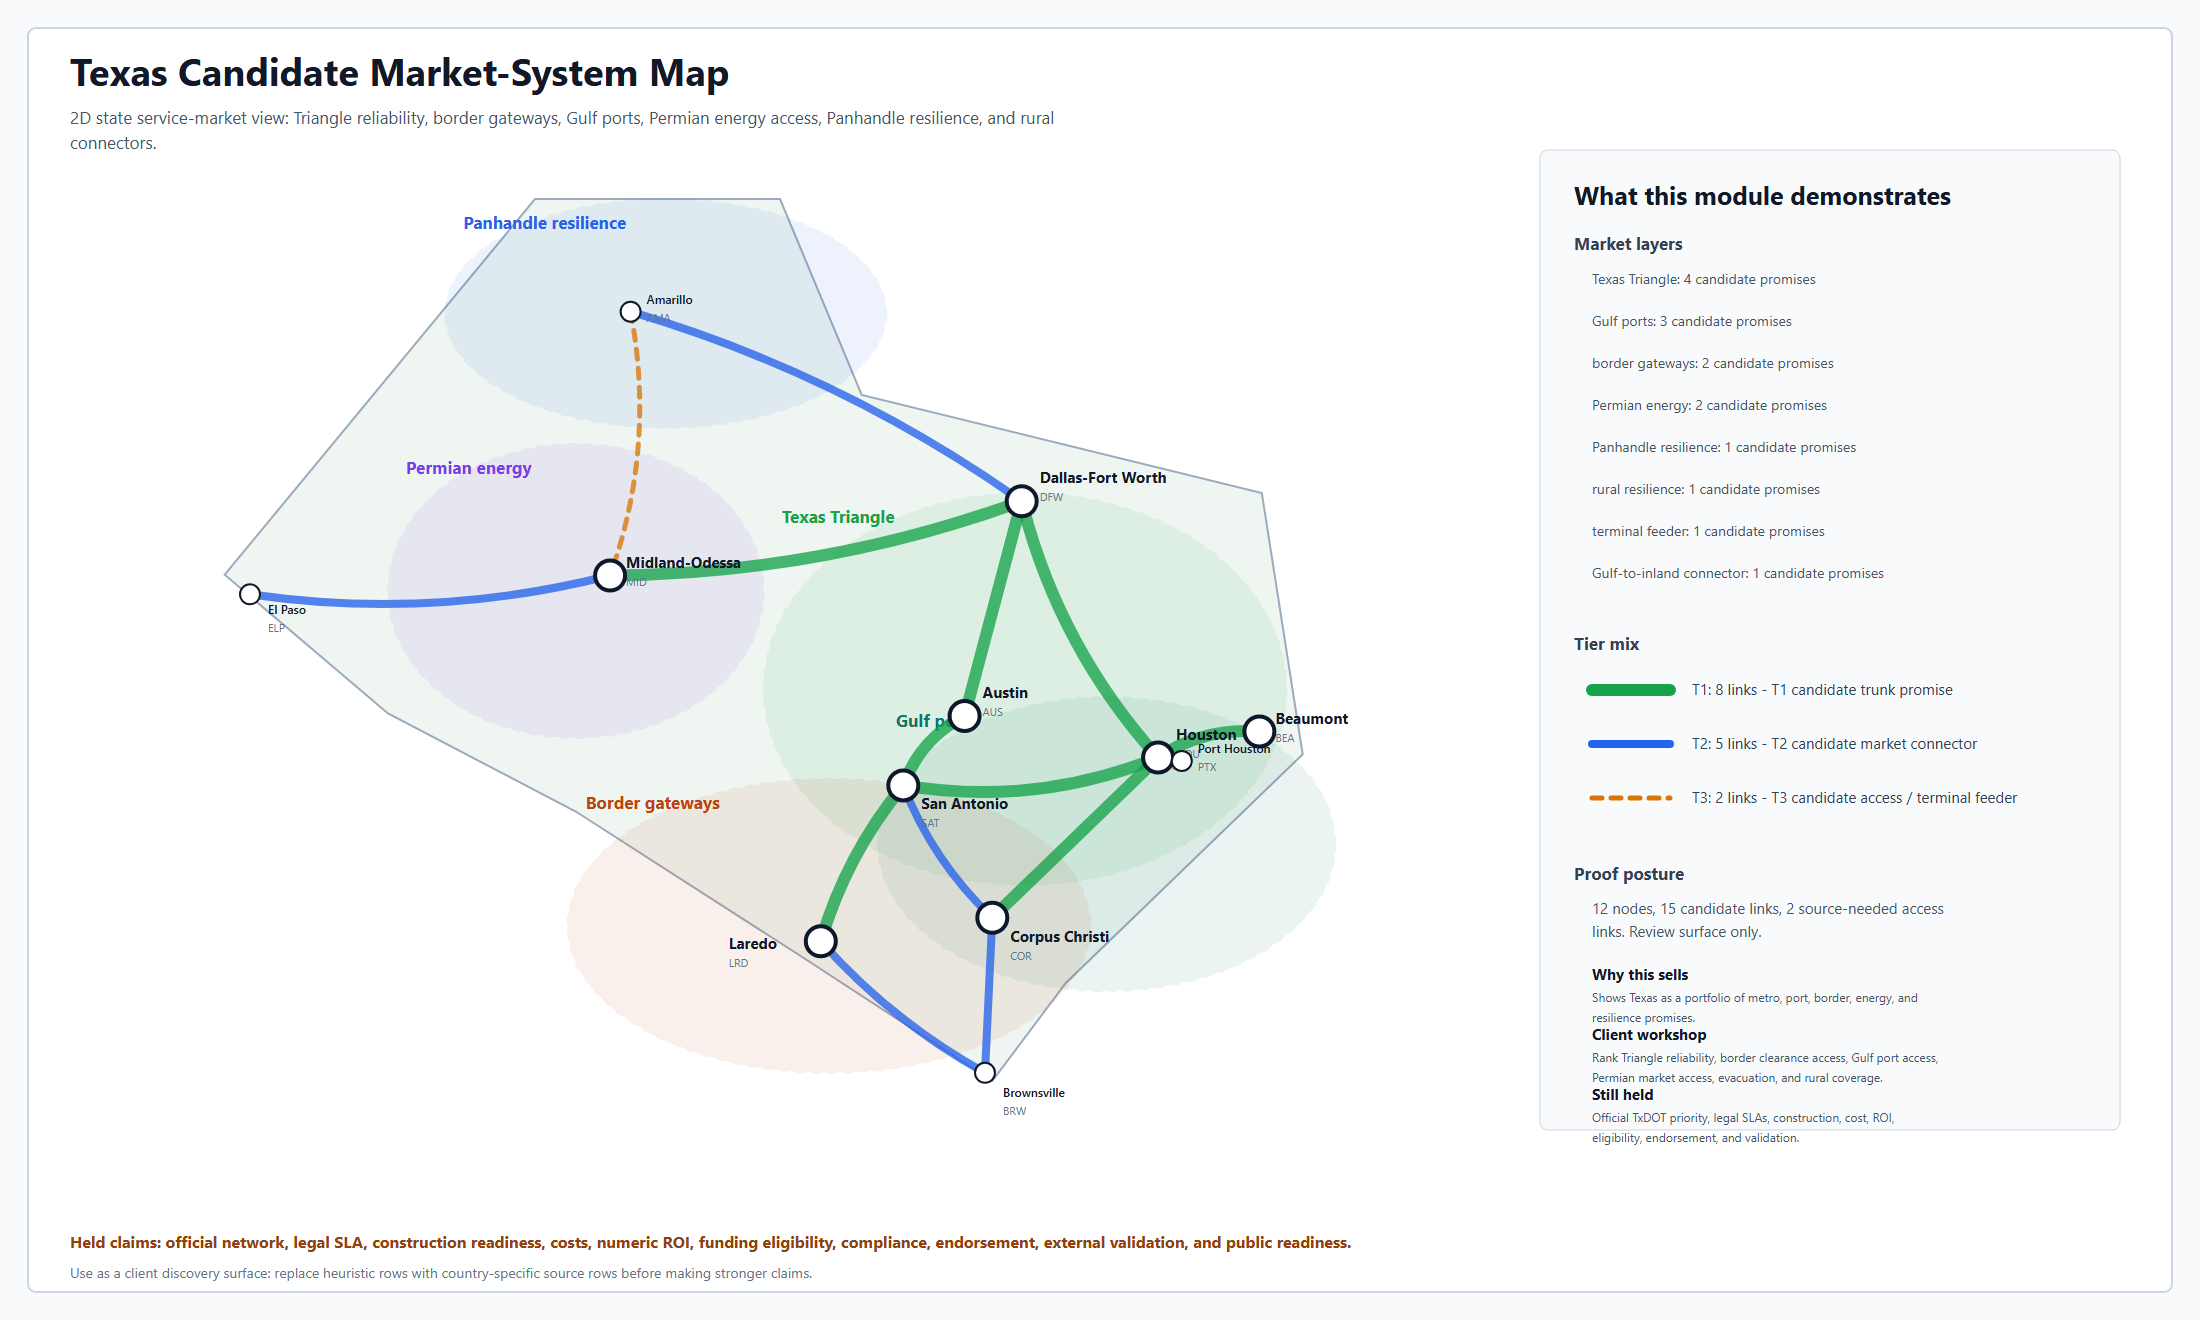
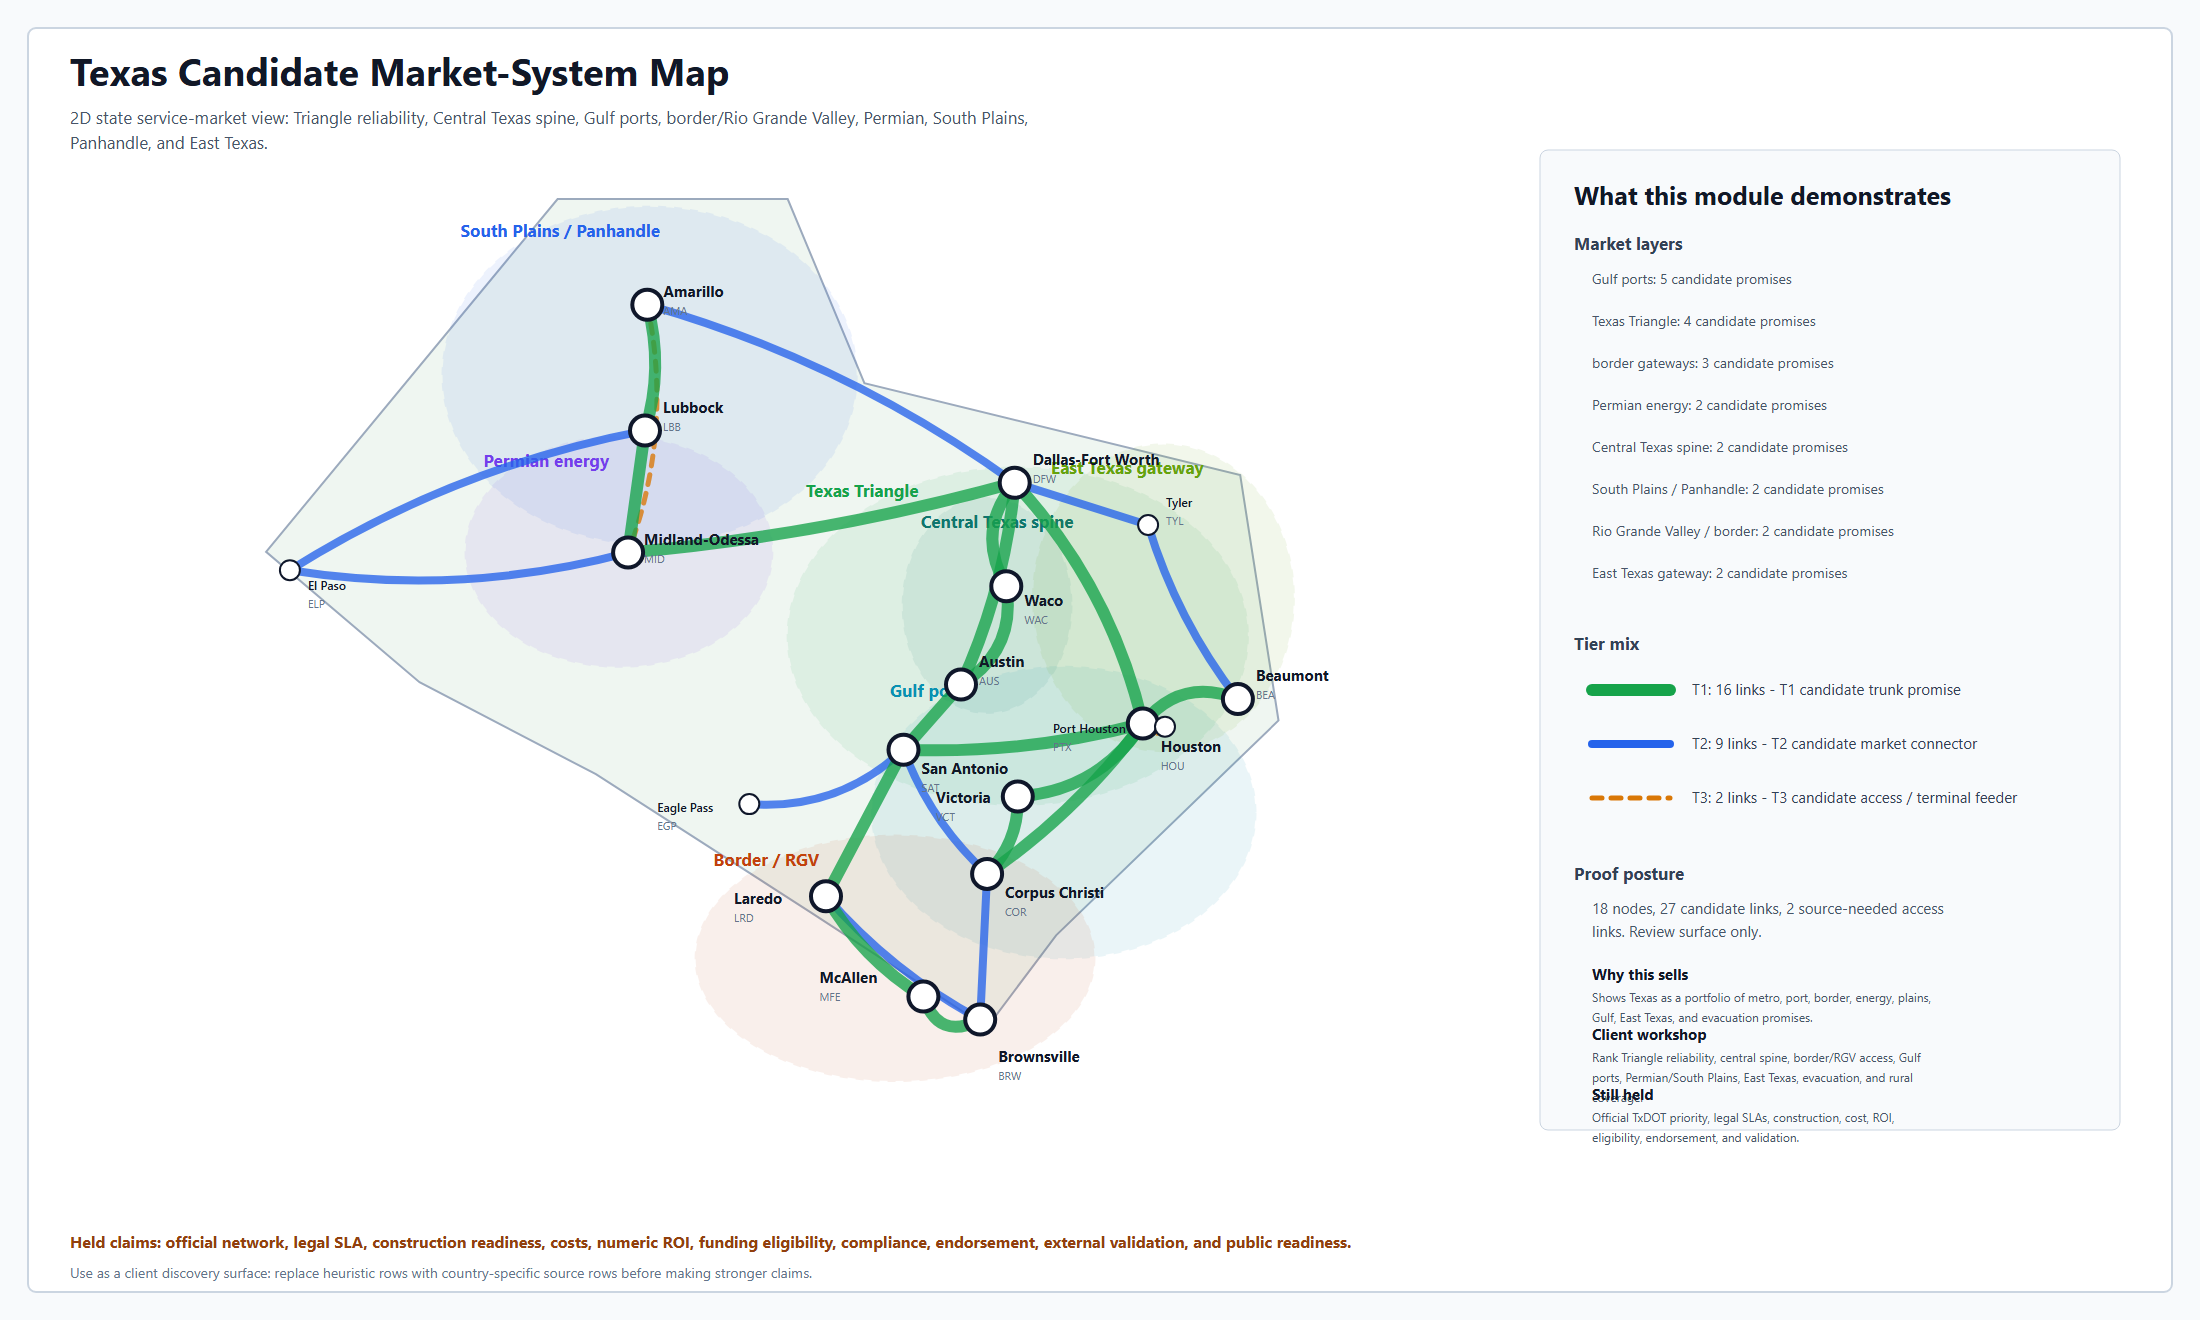
docs: improve texas market system representation

diff --git a/tools/render_international_market_system_maps.py b/tools/render_international_market_system_maps.py
@@ -85,30 +85,40 @@ CONFIG = {
     },
     "texas": {
         "title": "Texas Candidate Market-System Map",
-        "subtitle": "2D state service-market view: Triangle reliability, border gateways, Gulf ports, Permian energy access, Panhandle resilience, and rural connectors.",
+        "subtitle": "2D state service-market view: Triangle reliability, Central Texas spine, Gulf ports, border/Rio Grande Valley, Permian, South Plains, Panhandle, and East Texas.",
         "output": "state/texas-market-system-v1.svg",
         "outline_lonlat": [(-106.8, 32.0), (-103.0, 36.6), (-100.0, 36.6), (-99.0, 34.2), (-94.1, 33.0), (-93.6, 29.8), (-96.5, 27.0), (-97.4, 25.8), (-99.7, 27.3), (-102.5, 29.1), (-104.8, 30.3)],
         "zones_lonlat": [
-            ("Texas Triangle", -97.0, 30.6, 3.2, 2.4, "#16a34a"),
-            ("Gulf ports", -96.0, 28.7, 2.8, 1.8, "#0f766e"),
-            ("Border gateways", -99.4, 27.7, 3.2, 1.8, "#c2410c"),
-            ("Permian energy", -102.5, 31.8, 2.3, 1.8, "#7c3aed"),
-            ("Panhandle resilience", -101.4, 35.2, 2.7, 1.4, "#2563eb"),
+            ("Texas Triangle", -97.0, 30.9, 3.0, 2.2, "#16a34a"),
+            ("Central Texas spine", -97.4, 31.3, 1.1, 1.4, "#0f766e"),
+            ("Gulf ports", -96.4, 28.6, 2.5, 1.9, "#0891b2"),
+            ("Border / RGV", -98.6, 26.7, 2.6, 1.6, "#c2410c"),
+            ("Permian energy", -102.2, 32.0, 2.0, 1.5, "#7c3aed"),
+            ("South Plains / Panhandle", -101.8, 34.3, 2.7, 2.2, "#2563eb"),
+            ("East Texas gateway", -95.1, 31.4, 1.7, 2.0, "#65a30d"),
         ],
         "callouts": [
-            ("Why this sells", "Shows Texas as a portfolio of metro, port, border, energy, and resilience promises."),
-            ("Client workshop", "Rank Triangle reliability, border clearance access, Gulf port access, Permian market access, evacuation, and rural coverage."),
+            ("Why this sells", "Shows Texas as a portfolio of metro, port, border, energy, plains, Gulf, East Texas, and evacuation promises."),
+            ("Client workshop", "Rank Triangle reliability, central spine, border/RGV access, Gulf ports, Permian/South Plains, East Texas, evacuation, and rural coverage."),
             ("Still held", "Official TxDOT priority, legal SLAs, construction, cost, ROI, eligibility, endorsement, and validation."),
         ],
         "label_offsets": {
             "DFW": (18, -18),
+            "WAC": (18, 20),
             "AUS": (18, -18),
             "SAT": (18, 24),
-            "HOU": (18, -18),
+            "HOU": (18, 28),
+            "PTX": (-112, 6),
+            "BEA": (18, -18),
+            "VCT": (-82, 6),
             "COR": (18, 24),
-            "BRW": (18, 24),
+            "BRW": (18, 42),
+            "MFE": (-104, -14),
             "LRD": (-92, 8),
             "ELP": (18, 20),
+            "LBB": (18, -18),
+            "TYL": (18, -18),
+            "EGP": (-92, 8),
         },
     },
     "iowa": {

diff --git a/docs/reviews/state-texas-market-system-representation-001.md b/docs/reviews/state-texas-market-system-representation-001.md
@@ -1,0 +1,46 @@
+---
+name: Texas Market-System Representation 001
+slug: state-texas-market-system-representation-001
+type: review
+status: draft
+rubric_version: v1.0
+author: codex
+created: 2026-06-21
+updated: 2026-06-21
+sources:
+  - data/international-market-system-map-v1.csv
+  - tools/render_international_market_system_maps.py
+  - maps/state/texas-market-system-v1.svg
+  - maps/state/texas-market-system-v1.png
+---
+
+# Texas Market-System Representation 001
+
+## Scope
+
+This refinement raises the Texas map from a Triangle-plus-branches view to a
+statewide market-system discovery surface.
+
+The update adds Waco, Lubbock, McAllen, Victoria, Tyler, and Eagle Pass, and
+adds service promises for Central Texas, South Plains/Panhandle, Rio Grande
+Valley, East Texas, Gulf evacuation/port access, and secondary border gateways.
+
+## Rationale
+
+A state client will not accept a map that treats its service system as one
+dominant line plus feeders. Texas has a statewide requirement to connect its
+largest metros, ports, border gateways, energy regions, plains cities, and
+regional markets in the smartest way possible.
+
+The updated T1 posture therefore includes more major city and gateway promises
+while preserving evidence boundaries.
+
+## Held Claims
+
+The map does not claim official TxDOT priority, legal SLA, construction
+readiness, cost, numeric ROI, funding eligibility, compliance, endorsement,
+external validation, or public readiness.
+
+## Gate
+
+Decision: **texas_representation_improved; validation_held**
